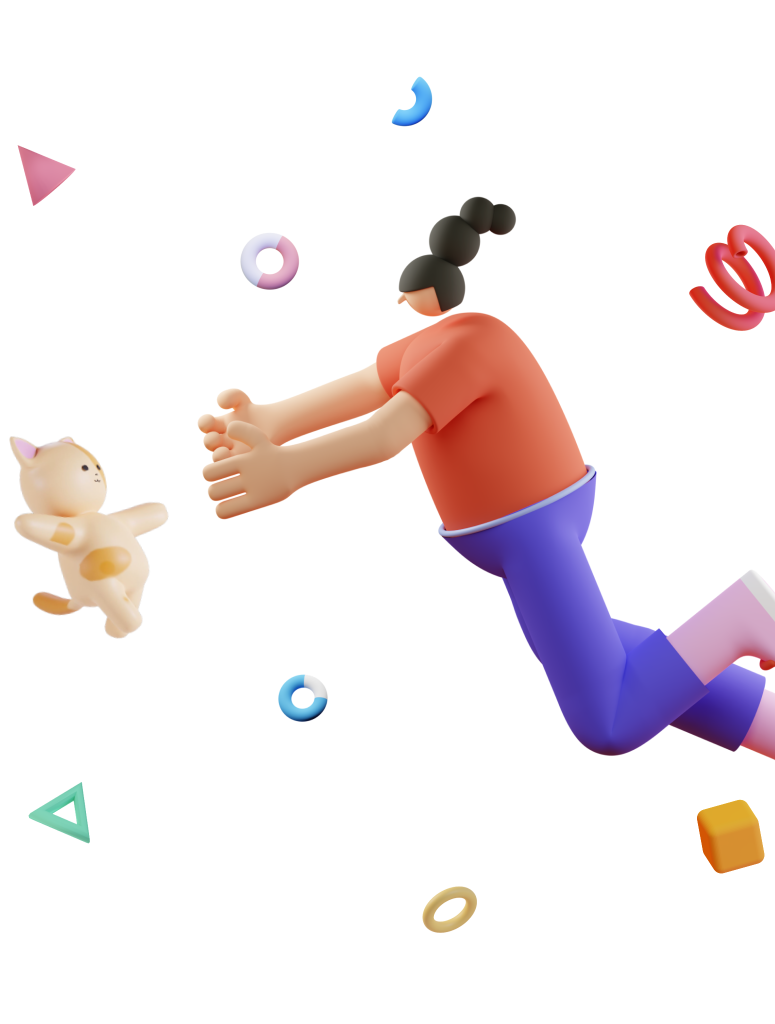
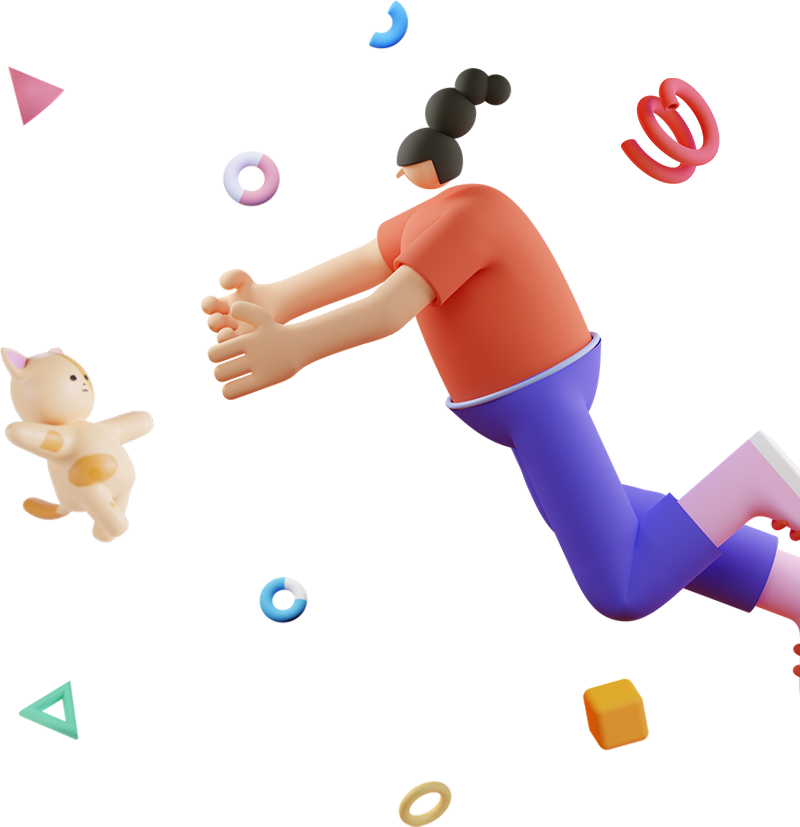
.

diff --git a/src/pages/MainPage.tsx b/src/pages/MainPage.tsx
@@ -3,10 +3,10 @@ import girlAndPetImg from "../assets/images/girl-and-pet.png";
 
 const MainPage: React.FC = () => {
   return (
-    <div className="relative w-1/2 h-screen py-5 px-10 ">
-      <div className="bg-red-300 w-full h-[calc(100vh-90px)] rounded-3xl dark:bg-neutral-700"></div>
+    <div className="relative w-1/2 h-full py-5 px-10 flex items-center justify-center overflow-x-hidden overflow-y-hidden">
+      <div className="bg-red-300 w-11/12 h-[calc(100vh-90px)] rounded-3xl dark:bg-neutral-700"></div>
       <img
-        className="absolute top-0 right-0 w-full h-full object-cover"
+        className="absolute top-0 left-0 w-full min-w-fit"
         src={girlAndPetImg}
         alt="Girl with pet main page"
       ></img>
